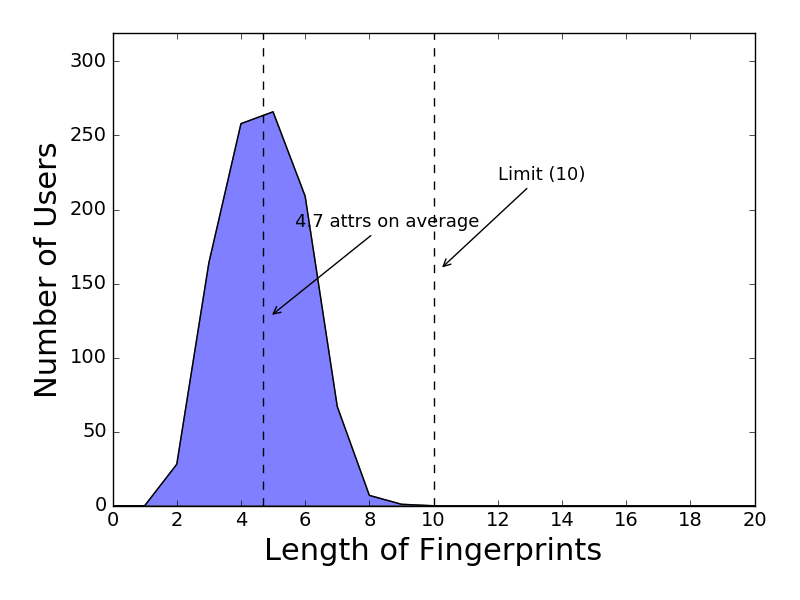
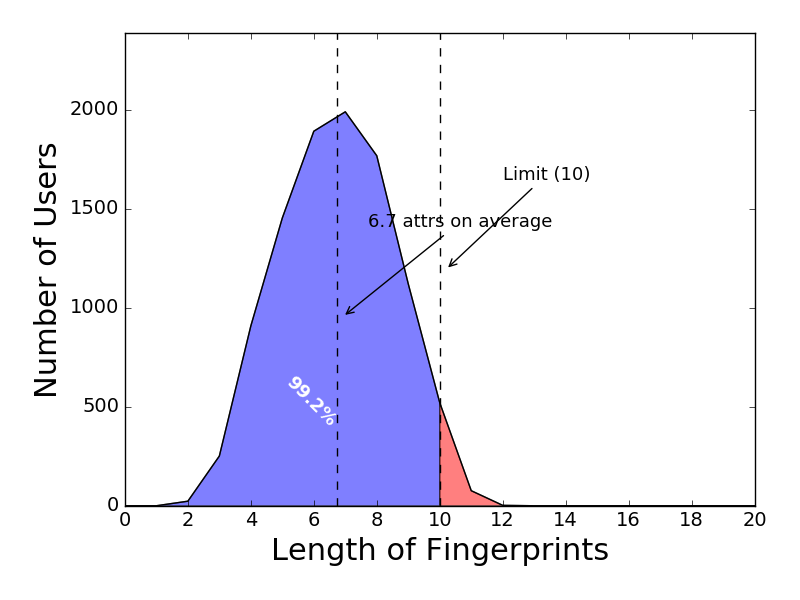
explanation and how-to for the code repository

diff --git a/readme.md b/readme.md
@@ -1,0 +1,81 @@
+# Code repository for paper titled 'Near-Optimal Fingerprinting with Constraints'
+
+## What is this for?
+This repository serves the codebase of a scientific conference paper in [1]. The paper shows that limiting the availability of user attributes is not enough for mainting user privacy. In fact, this is shown in two "hot" areas the paper:
+
+1. Apple iOS 9 introduced limitations on application detection. While this definitely limits what could be learnt from each user this way, this still leaves the possibility open for several attacks that aim to re-identify users or to link users in multiple databases.
+2. Recently outdated versions (up to version 5.5) Tor Browser, used a similar protection mechanism to protect against fingerprinting based web tracking: by default a webpage was only allowed to load at most 10 fonts. (In version 5.5 developers started using another privacy protection mechanism due to implementation difficulties.)
+
+As this method is still considered as a valid approach to protect user privacy, the paper shows that it is in fact a weak protection method and if possible, should be avoided.
+
+The paper is available here: [**TBA: arxiv link after acceptance**]
+
+## How can I use this?
+
+The code is consisting of three parts:
+
+1. We cannot release our dataset publicly, so the a toy dataset needs to be set up. We use the [UCI Adult Data Set](https://archive.ics.uci.edu/ml/datasets/Adult) for this purpose. Although it is a regular tabular dataset, and has a Gausian distribution instead of a heavy tailed one over the attributes, it is fine for experimenting. Then you can work on your own.
+2. Scripts generating and analysing _targeted fingerprints_ for individuals (please see the paper for more details).
+3. Scripts generating and analysing _general fingerprints_ over the whole dataset (please see the paper for more details).
+
+You can use `python` for the first step, then `pypy` to speed things up.
+
+### (1) Data generation
+
+Simply run the first file (`01_build_dataset.py`), it will download the dataset in question, and will also convert it to the necessary format.
+
+Finally, it will create two files in the `./data/` folder:
+
+* `attrs.csv` for storing list of users having a the same attribute (each line is an attribute).
+* `users.csv` for storing list of attributes per user (each line is a user).
+
+You can have multiple datasets, these should be differentiated with a postfix.
+
+### (2) Evaluation of targeted fingerprinting
+
+The operation is based on configuration files stored in `./config/`. These `json` files have a couple of entries, and could be used as:
+
+* `type`: which individual fingerprinting algorithm shall be used. There are two algorithms that could be added here:
+  * `paper`: the exact algorithm that you can find in the paper.
+  * `faster`: we provide another algorithm for fast experimentation. We observed that while this algorithm is a bit less precise than the other one, it is faster when the attribute space is large; plus, results are just a bit behind compard to the other one. **TBW**: differences.
+* `data_pref`: dataset postfix; e.g., `users_movies.csv`, from where `movies` should be added here.
+* `limit`: limit for attribute queryies. For example, in case of iOS 9 this is 50, and 10 for the Tor Browser.
+* `user_limit`: for faster experimentation it can be nice if only a part of the dataset is used. Use -1 if you need the whole dataset.
+* `first_col`: in some cases the CSV file can start with line numbering. With this variable, you can control how many columns need to be skipped from the beginning of each line. Use 0 if none.
+
+Output in all cases is provided in `./results/`.
+
+First you can run either the script file running algorithm `paper` (`02_individual_fingerprints.py`) or for algorithm `faster` (`03_individual_fingerprints_faster.py`). The basic config file wired into the following scripts assume that you run `paper` with limited to only 1000 users. These will calculate individual fingerprints and store them as a CSV in the `./results/` folder.
+
+Each line in an individual fingerprint file is the list of attributes of the fingerprint, negative values are attributes that should not be set to the given user. (_Note_: for "historical" reasons, attributes are indexed from zero, and to preserve the sign, the zero index is stored as a float value.)
+
+You can visualize properties of the fingerprints by using the following scripts. Script `04_lengths.py` plots the distribution of the length of the fingerprints (this is for 10.000 entries of the adult dataset):
+
+![alt text](https://raw.githubusercontent.com/gaborgulyas/constrainted_fingerprinting/master/images/individual_fingerprint_lengths.png "Individual fingerprint lengths visualized.")
+
+Next, you need to run `05_cache_anonsets.py`, which will calculate anonymity set sizes for each user, and will save  the result into a pickled file. This can be plotted with script `06_plot_anonsets.py`, which would give you something like this:
+
+![alt text](https://raw.githubusercontent.com/gaborgulyas/constrainted_fingerprinting/master/images/individual_fingerprints_anonsetsizes.png "Individual fingerprint anonymity set sizes visualized.")
+
+For the latter visualization, you need to get two more scripts:
+
+* [`kmap.py`](https://raw.githubusercontent.com/gaborgulyas/kmap/master/kmap.py): this visualizes frequency of anonymity sets accordingly to their sizes. This is a useful visualization tool that helps understanding what is happening in your data, if you consider different attributes, apply anonymization or other countermeasures to decrease uniqueness.
+* [`selectpoints.py`](https://raw.githubusercontent.com/gaborgulyas/SelectPoints/master/selectpoints.py): `kmap.py` uses this script to surround some points on the plot with a border.
+
+### (3) Evaluation of general fingerprinting
+
+TBW.
+
+## Reference/attribution
+If you find this work useful, especially if you use it whole or in part, please refer it to (similarly) as:
+
+`[1] Gabor Gyorgy Gulyas, Gergely Acs, Claude Castelluccia: Near-Optimal Fingerprinting with Constraints. PET Symposium 2016. (conditionally accepted paper)`
+
+The paper is available here: [**TBA: arxiv link after acceptance**]
+
+Here is a short teaser:
+
+> **Near-Optimal Fingerprinting with Constraints**
+> 
+> Several recent studies have demonstrated that people show large behavioural uniqueness. This has serious privacy implications as most individuals become increasingly re-identifiable in large datasets or can be tracked while they are browsing the web using only a couple of their attributes, called as their fingerprints. Often, the success of these  attacks depend on explicit constraints on the number of attributes learnable about individuals, i.e., the size of their fingerprints. These constraints can be budget as well as technical constraints imposed by the data holder. For instance, Apple restricts the number of applications that can be called by another application on iOS in order to mitigate the potential privacy threats of leaking the list of installed applications on a device. 
+In this work, we address the problem of identifying the attributes (e.g., smartphone applications) that can serve as a fingerprint of users given constraints on the size of the fingerprint. We give the best fingerprinting algorithms in general, and evaluate their effectiveness on several real-world datasets. Our results show that current privacy guards limiting the number of attributes that can be queried about individuals is insufficient to mitigate their potential privacy risks in many practical cases.   
